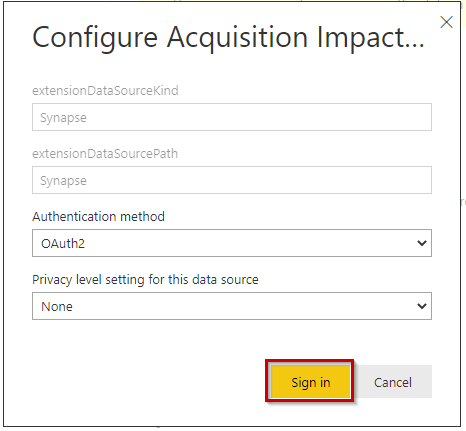
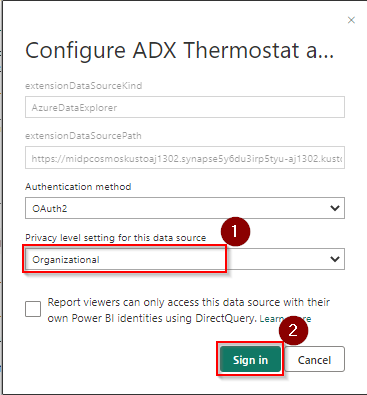
updated

Changed region(s): [[0.0, 0.0, 1.0, 1.0], [0.0599, 0.0608, 0.9292, 0.3038], [0.9292, 0.243, 0.9591, 0.2734]]

diff --git a/Readme-shell.md b/Readme-shell.md
@@ -546,7 +546,7 @@ To give permissions for the Power BI reports to access the data sources:
 
 10. **Enter** the same SQL Administrator login password that was created for [Task 3](#task-3-deploy-the-arm-template) Step #5.
 
-11. **Select** privacy level as Organisational and **Click** on Sign in.
+11. **Click** on Sign in.
 
 	![Validate Creds.](media/power-bi-report-8.png)
 	
@@ -558,7 +558,7 @@ To give permissions for the Power BI reports to access the data sources:
 
 	![Data Source Creds.](media/power-bi-report-01.png)
 
-15. Keeping the default values as it is, **click** on Sign in, a new window will pop-up.
+15. **Select** privacy level as Organisational and **Click** on Sign in, a new window will pop-up.
 
 	![Validate Creds.](media/power-bi-report-02.png)
 
@@ -574,9 +574,9 @@ To give permissions for the Power BI reports to access the data sources:
 
 	![Data Source Creds.](media/power-bi-report-04.png)
 
-20. **Enter** Username as ‘labsqladmin’. **Enter** the same SQL Administrator login password that was created for [Task 3](#task-3-deploy-the-arm-template) Step #5. **Select** privacy level as Organisational and **Click** on Sign in.
+20. **Enter** Username as ‘labsqladmin’. **Enter** the same SQL Administrator login password that was created for [Task 3](#task-3-deploy-the-arm-template) Step #5. **Click** on Sign in.
 
-	![Validate Creds.](media/power-bi-report-05.png)
+	![Validate Creds.](media/power-bi-report-8.png)
 	
 ### Steps to create realtime reports
 
